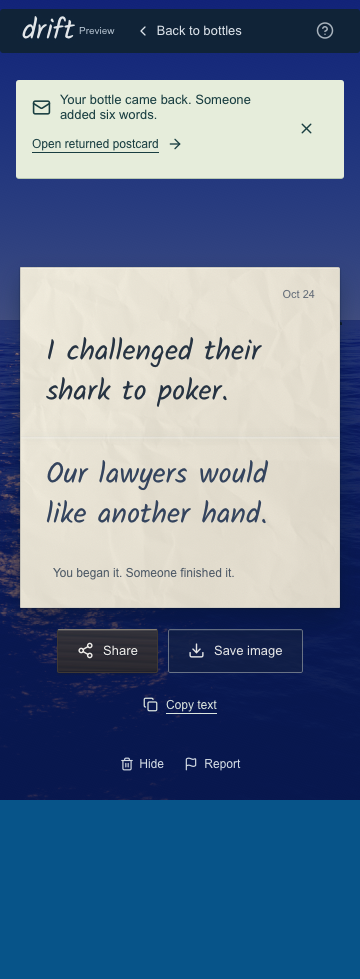
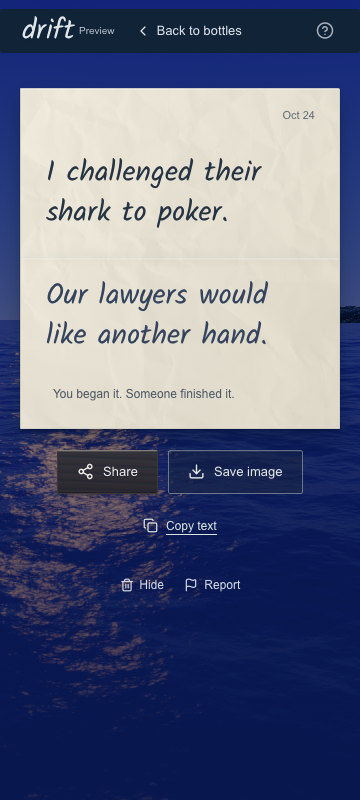
Keep live returned notes reachable without interrupting drafts

diff --git a/apps/web/src/main.tsx b/apps/web/src/main.tsx
@@ -597,7 +597,7 @@ function App() {
         Skip to the game
       </a>
       <div
-        className={`app-shell sea-world ${view === 'today' || (view === 'play' && active?.stage === 'catch') ? 'shore-shell' : ''}${ritual ? ' has-bottle-ritual' : ''}${view === 'today' && needsShoreCheck ? ' has-shore-check' : ''}`}
+        className={`app-shell sea-world ${view === 'today' || (view === 'play' && active?.stage === 'catch') ? 'shore-shell' : ''}${ritual ? ' has-bottle-ritual' : ''}${view === 'today' && needsShoreCheck ? ' has-shore-check' : ''}${view === 'today' && returnedCard ? ' has-returned-note' : ''}`}
       >
         <Ocean paused={seaPaused} />
         <header className="site-header" inert={!!ritual}>
@@ -659,29 +659,32 @@ function App() {
         <div className="sr-only" role="status" aria-live="polite" aria-atomic="true">
           {returnedCard ? 'Your bottle came back. Someone added six words.' : ''}
         </div>
-        {returnedCard && (
-          <aside className="returned-notice" aria-label="Returned bottle">
-            <div>
-              <Mail size={19} aria-hidden="true" />
-              <span>Your bottle came back. Someone added six words.</span>
-            </div>
-            <button className="text-button" onClick={() => showCard(returnedCard.id)}>
-              Open returned postcard <ArrowRight size={16} aria-hidden="true" />
-            </button>
-            <button
-              className="icon-button"
-              aria-label="Dismiss returned bottle notice"
-              onClick={() => setReturnedNotice('')}
-            >
-              <X size={17} aria-hidden="true" />
-            </button>
-          </aside>
-        )}
         <main id="main" className={`main view-${view}`} inert={!!ritual}>
+          {returnedCard && (
+            <aside
+              className={`returned-notice${view === 'today' ? ' returned-notice--shore' : ''}`}
+              aria-label="Returned bottle"
+            >
+              <div>
+                <Mail size={19} aria-hidden="true" />
+                <span>Your bottle came back. Someone added six words.</span>
+              </div>
+              <button className="text-button" onClick={() => showCard(returnedCard.id)}>
+                Open returned postcard <ArrowRight size={16} aria-hidden="true" />
+              </button>
+              <button
+                className="icon-button"
+                aria-label="Dismiss returned bottle notice"
+                onClick={() => setReturnedNotice('')}
+              >
+                <X size={17} aria-hidden="true" />
+              </button>
+            </aside>
+          )}
           {s.connected &&
             s.service?.botRequired &&
             !gateReady &&
-            (view === 'today' || view === 'play') && (
+            ((view === 'today' && !returnedCard) || view === 'play') && (
               <ShoreGate
                 placement={view === 'today' ? 'shore' : 'inline'}
                 onVerified={() => setGateReady(true)}

diff --git a/apps/web/src/natural.css b/apps/web/src/natural.css
@@ -751,17 +751,24 @@ input:focus-visible {
   border-radius: 3px;
 }
 .sea-world .returned-notice {
-  margin: 80px auto 0;
+  margin: 0 auto 20px;
   width: min(960px, calc(100% - 32px));
   padding: 12px 16px;
   border-radius: 3px;
+}
+.sea-world .returned-notice--shore {
+  position: fixed;
+  top: 80px;
+  left: 50%;
+  transform: translateX(-50%);
+  margin: 0;
 }
 .sea-world .returned-notice > .icon-button {
   min-width: 44px;
   min-height: 44px;
 }
 
-/* Keep the notice margin inside the scene so it cannot move the absolute header. */
+/* Keep scene margins contained without moving the absolute header. */
 .sea-world {
   display: flow-root;
 }
@@ -880,7 +887,8 @@ input:focus-visible {
   }
 }
 @media (max-height: 480px) {
-  .sea-world.has-shore-check .daily-tide {
+  .sea-world.has-shore-check .daily-tide,
+  .sea-world.has-returned-note .daily-tide {
     visibility: hidden;
   }
   .sea-world .daily-tide > p:not(.tide-status) {

diff --git a/docs/returned-note-layout.md b/docs/returned-note-layout.md
@@ -1,0 +1,11 @@
+# A reply comes back
+
+A new ending should feel like an invitation to read, without interrupting the words someone is writing. A three-writer local regression reproduced a layout bug: on a 360×800 shore, the normal-flow return notice pushed the dock's bottom to 979px. The saved `return-shore-chrome-before` screenshot and geometry record that failure.
+
+The home notice now sits below the header without moving the full-height shore. In other views it stays inline inside the main content. A new reply does not change views, replace a draft or take focus. Opening the notice selects that exact completed pair; returning to writing restores the independent unfinished beginning. Short landscape prioritizes the notice over the daily caption.
+
+If verification is also required, the shore shows the returned note first. Dismissing or opening it allows the normal writing check to appear in its appropriate view. Writing remains disabled until verification; the server and challenge protections are unchanged. Read-only stories do not require writing verification.
+
+Eleven local letter checks pass in each Chrome and WebKit, including draft focus, correct returned pair, resume, cookie recovery, actual PNG download, selected accessibility checks and shore geometry at desktop, portrait, narrow-phone and short-landscape sizes. Six synthetic gate-layout checks include return/check priority with writing disabled throughout. Six coast checks retain real Chrome WebGPU movement/pause and the approved landscape/lighthouse fallback. These use synthetic local writers, no provider calls, and an inert widget fixture for the gate layout. They do not establish physical-phone, attendee or hosted Claude completion quality.
+
+The notice represents a reply arriving during the current connected page session. Reloading does not turn historical replies into fresh notifications; the saved beginning's reply list remains available in My bottles. Persistent unread tracking is not added by this change.
